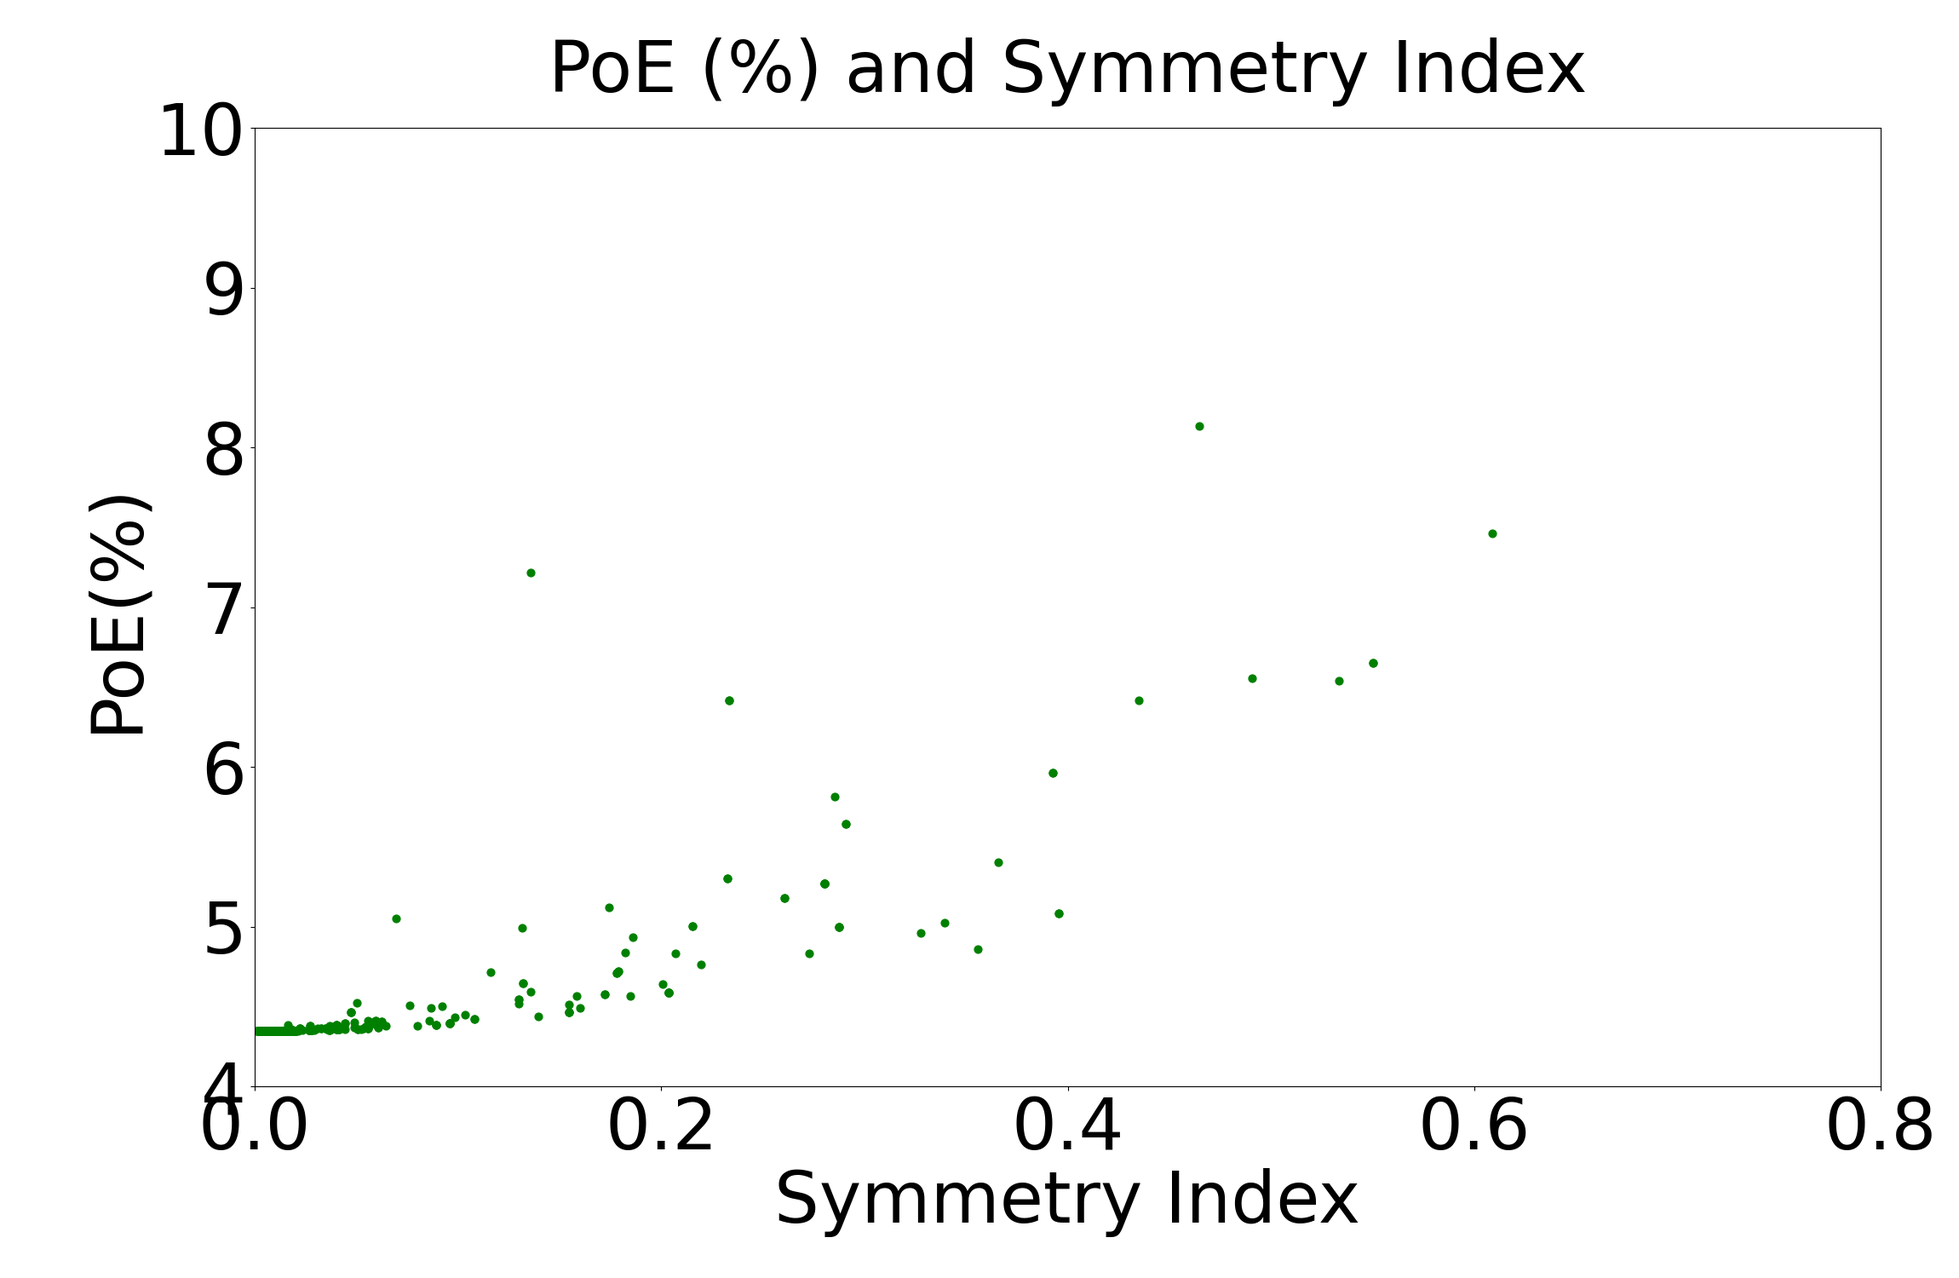
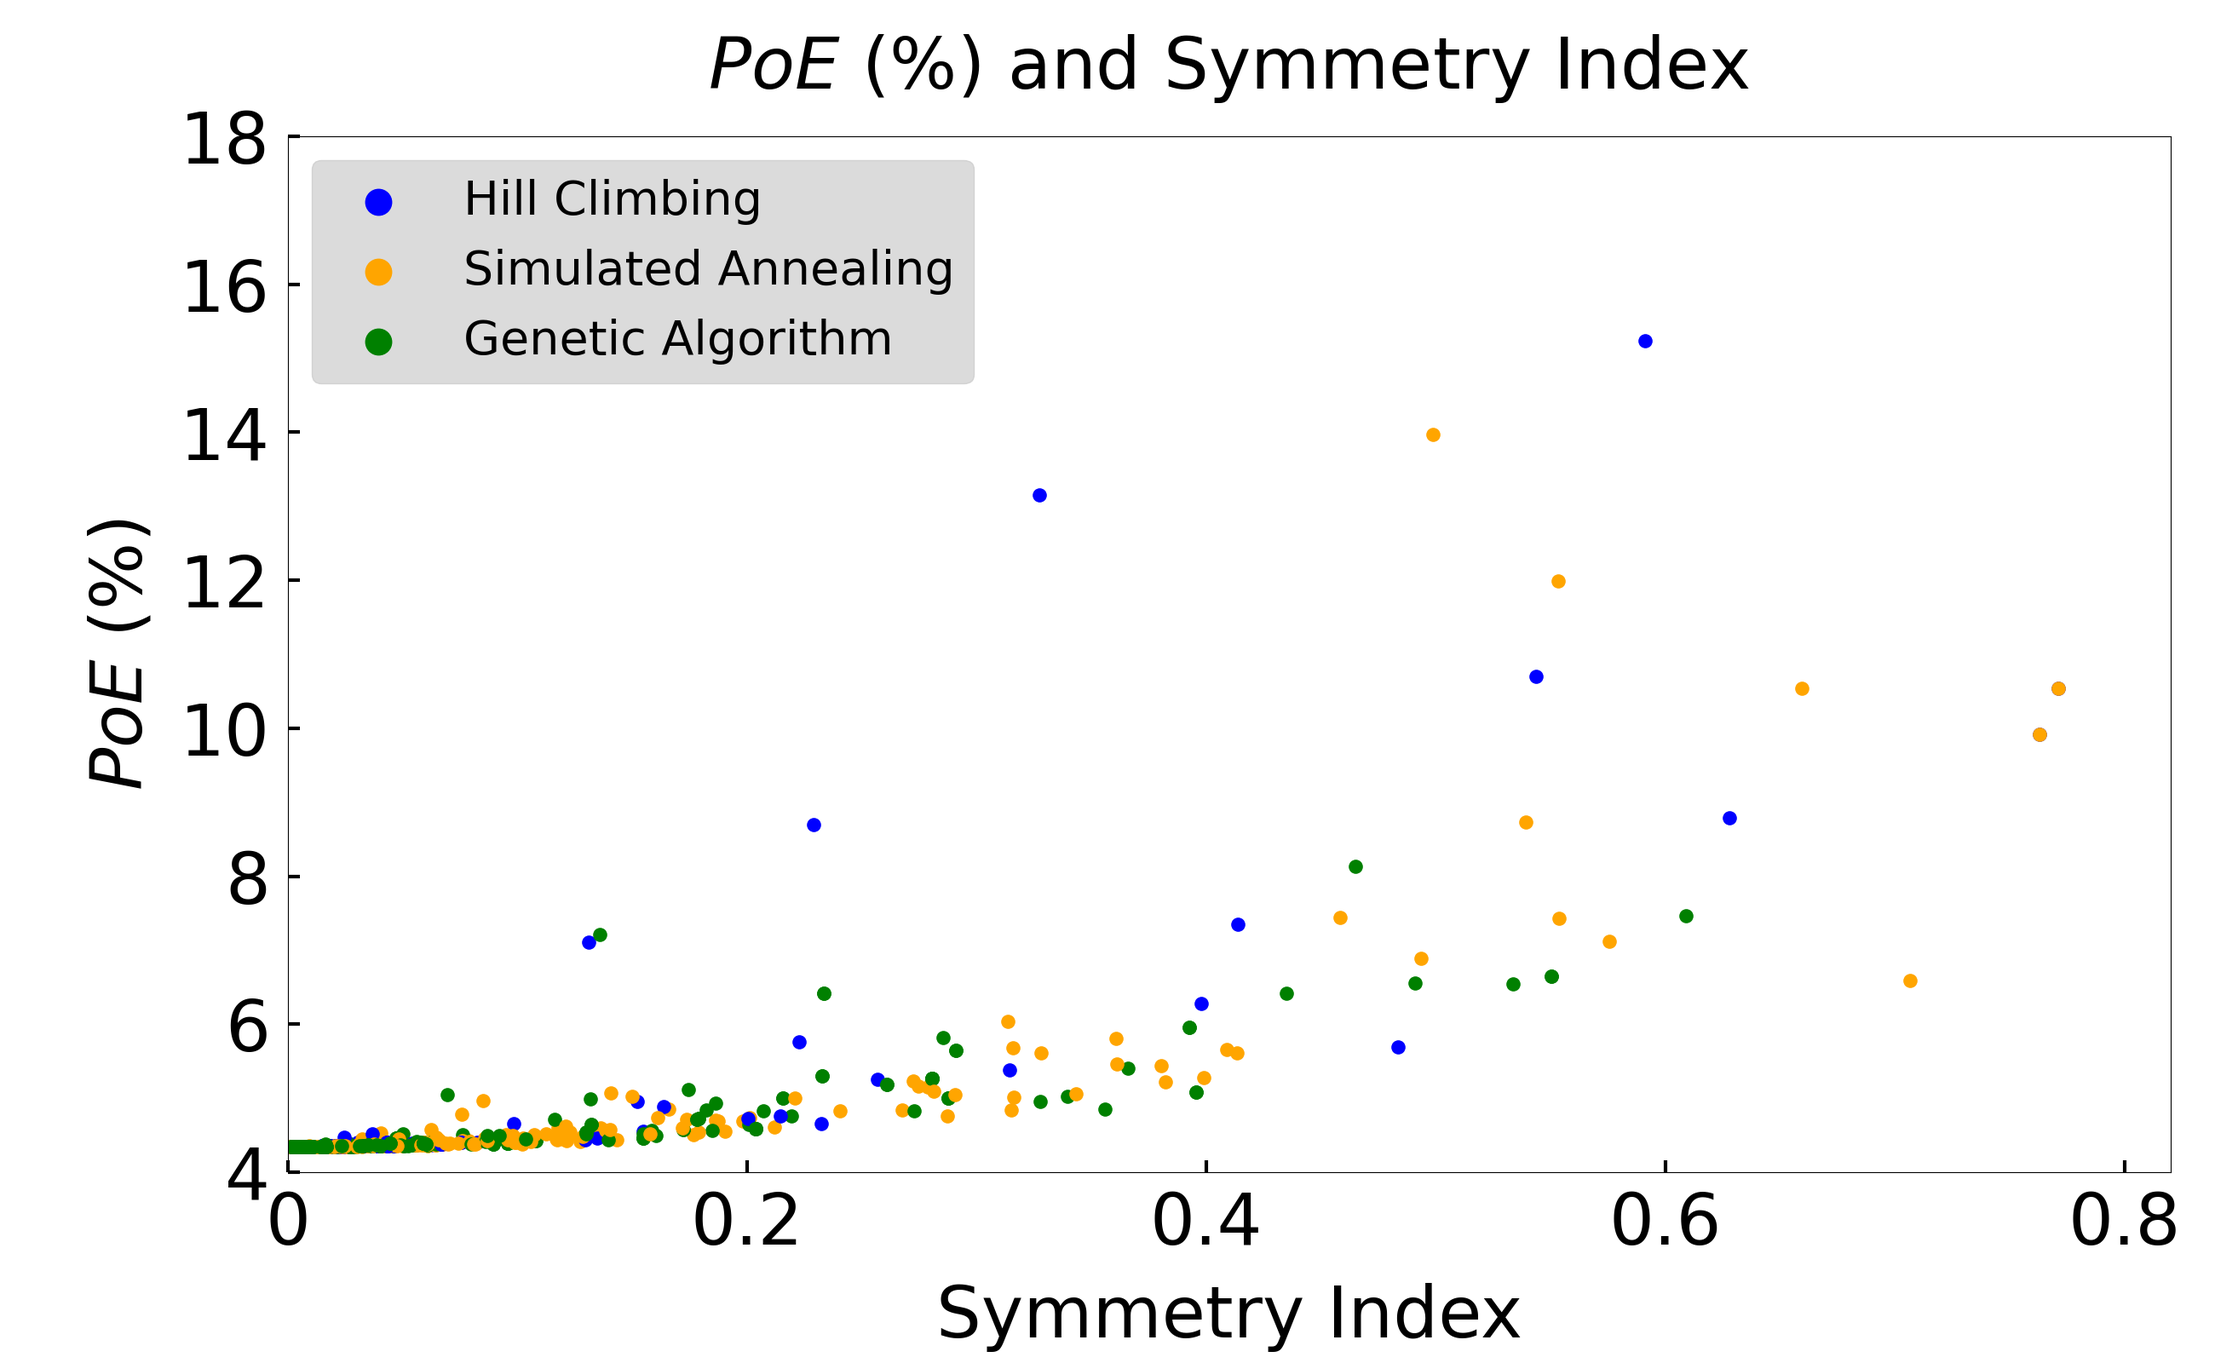
new plot; update quantum_state_custombasis

diff --git a/plot.py b/plot.py
@@ -408,7 +408,6 @@ class Plot:
 
     @staticmethod
     def symmetry_varyseed(data: dict, filename: str):
-        # prepare data
         theta = 46
         table = defaultdict(list)
         for myinput, output_by_methods in data:
@@ -416,7 +415,7 @@ class Plot:
                 if method == 'Hill climbing' and myinput.unitary_theta == theta:
                     table[output.start_seed] = output.symmetries
         print(table)
-        fig, ax = plt.subplots(figsize=(23, 17))
+        fig, ax = plt.subplots(figsize=(26, 16))
         fig.subplots_adjust(left=0.13, right=0.96, top=0.9, bottom=0.15)
         seeds = [0, 1, 2, 3, 4]
         for seed in seeds:
@@ -434,7 +433,6 @@ class Plot:
 
     @staticmethod
     def symmetry_varymethod(data: dict, filename: str):
-        # prepare data
         theta = 46
         seed = 0
         table = defaultdict(list)
@@ -443,13 +441,37 @@ class Plot:
                 if myinput.unitary_theta == theta and output.start_seed == seed:
                     table[method] = output.symmetries
         print(table)
-        fig, ax = plt.subplots(figsize=(23, 15))
+        fig, ax = plt.subplots(figsize=(26, 16))
         fig.subplots_adjust(left=0.13, right=0.96, top=0.9, bottom=0.15)
         methods = ['Hill climbing', 'Simulated annealing', 'Genetic algorithm']
         for method in methods:
-            ax.plot(table[method][:100], label=method)
-        ax.legend()
-        ax.set_title(f'Various Methods at $theta={theta}$', pad=40)
+            ax.plot(table[method][:100], label=method, linestyle=Plot.LINE_STYLE[method], color=Plot.COLOR[method])
+        ax.legend(fontsize=45)
+        ax.set_title(f'Various Methods at $theta={theta}$', pad=40, fontsize=60)
+        ax.set_xlabel('Iteration', labelpad=20)
+        ax.set_ylabel('Symmetry Index', labelpad=20)
+        ax.set_ylim([-0.001, 1])
+        ax.set_xlim([-0.1, 100])
+        ax.tick_params(axis='x', direction='out', length=10, width=3, pad=15)
+        ax.tick_params(axis='y', direction='out', length=10, width=3, pad=15)
+        fig.savefig(filename)
+
+
+    @staticmethod
+    def symmetry_varytheta(data: dict, filename: str):
+        table = defaultdict(list)
+        for myinput, output_by_methods in data:
+            for method, output in output_by_methods.items():
+                if method == 'Hill climbing' and output.start_seed == 0:
+                    table[myinput.unitary_theta] = output.symmetries
+        print(table)
+        fig, ax = plt.subplots(figsize=(26, 16))
+        fig.subplots_adjust(left=0.13, right=0.96, top=0.9, bottom=0.15)
+        thetas = [6, 26, 46, 66, 86]
+        for theta in thetas:
+            ax.plot(table[theta][:100], label=str(theta))
+        ax.legend(fontsize=45)
+        ax.set_title('Hill Climbing, varying $theta$', pad=40, fontsize=60)
         ax.set_xlabel('Iteration', labelpad=20)
         ax.set_ylabel('Symmetry Index', labelpad=20)
         ax.set_ylim([-0.001, 1])
@@ -469,21 +491,65 @@ class Plot:
                 if myinput.unitary_theta == theta:
                     table[key.format(method, output.start_seed)].append(output.symmetries)                     # [0] is symmetry
                     table[key.format(method, output.start_seed)].append((1 - np.array(output.scores)) * 100)   # [1] is poe
-        fig, ax = plt.subplots(figsize=(23, 15))
-        fig.subplots_adjust(left=0.13, right=0.96, top=0.9, bottom=0.15)
-        # methods = ['Hill climbing']
+        fig, ax = plt.subplots(figsize=(26, 16))
+        fig.subplots_adjust(left=0.13, right=0.98, top=0.9, bottom=0.14)
+        methods = ['Hill climbing', 'Simulated annealing', 'Genetic algorithm']
         # methods = ['Simulated annealing']
-        methods = ['Genetic algorithm']
+        # methods = ['Genetic algorithm']
         seeds = [0, 1, 2, 3, 4]
-        for method in methods:
-            for seed in seeds:
-                ax.scatter(table[key.format(method, seed)][0], table[key.format(method, seed)][1], color=Plot.COLOR[method], s=40)
+        for seed in seeds:
+            for method in methods:
+                if seed == 0:
+                    ax.scatter(table[key.format(method, seed)][0], table[key.format(method, seed)][1], color=Plot.COLOR[method], s=120, label=Plot.METHOD[method])
+                else:
+                    ax.scatter(table[key.format(method, seed)][0], table[key.format(method, seed)][1], color=Plot.COLOR[method], s=120)
+        ax.legend(fontsize=40, facecolor='lightgray', markerscale=2)
+        ax.set_xlabel('Symmetry Index', labelpad=20)
+        ax.set_ylabel('$PoE$ (%)', labelpad=20)
+        ax.set_xlim([0, 0.82])
+        xticks = [0, 0.2, 0.4, 0.6, 0.8]
+        ax.set_xticks(xticks)
+        ax.set_xticklabels([str(x) for x in xticks])
+        ax.set_ylim([4, 18])
+        ax.set_title('$PoE$ (%) and Symmetry Index', fontsize=60, pad=40)
+        ax.tick_params(axis='x', direction='in', length=10, width=3, pad=15)
+        ax.tick_params(axis='y', direction='in', length=10, width=3, pad=15)
+        fig.savefig(filename)
 
-        ax.set_xlabel('Symmetry Index')
-        ax.set_ylabel('PoE(%)')
-        ax.set_xlim([0, 0.8])
-        ax.set_ylim([4, 10])
-        ax.set_title('PoE (%) and Symmetry Index', fontsize=60, pad=30)
+
+    @staticmethod
+    def symmetry_poe_varymethod_zoomin(data: dict, filename: str):
+        theta = 46
+        table = defaultdict(list)
+        key = '{}-{}'  # {method}-{seed}
+        for myinput, output_by_methods in data:
+            for method, output in output_by_methods.items():
+                if myinput.unitary_theta == theta:
+                    table[key.format(method, output.start_seed)].append(output.symmetries)                     # [0] is symmetry
+                    table[key.format(method, output.start_seed)].append((1 - np.array(output.scores)) * 100)   # [1] is poe
+        fig, ax = plt.subplots(figsize=(26, 16))
+        fig.subplots_adjust(left=0.13, right=0.98, top=0.9, bottom=0.14)
+        methods = ['Hill climbing', 'Simulated annealing', 'Genetic algorithm']
+        # methods = ['Simulated annealing']
+        # methods = ['Genetic algorithm']
+        seeds = [0, 1, 2, 3, 4]
+        for seed in seeds:
+            for method in methods:
+                if seed == 0:
+                    ax.scatter(table[key.format(method, seed)][0], table[key.format(method, seed)][1], color=Plot.COLOR[method], s=120, label=Plot.METHOD[method])
+                else:
+                    ax.scatter(table[key.format(method, seed)][0], table[key.format(method, seed)][1], color=Plot.COLOR[method], s=120)
+        ax.legend(fontsize=40, facecolor='lightgray', markerscale=2)
+        ax.set_xlabel('Symmetry Index', labelpad=20)
+        ax.set_ylabel('$PoE$ (%)', labelpad=20)
+        ax.set_xlim([0, 0.082])
+        ax.set_ylim([4.34, 4.44])
+        xticks = [0, 0.02, 0.04, 0.06, 0.08]
+        ax.set_xticks(xticks)
+        ax.set_xticklabels([str(x) for x in xticks])
+        ax.tick_params(axis='x', direction='in', length=10, width=3, pad=15)
+        ax.tick_params(axis='y', direction='in', length=10, width=3, pad=15)
+        ax.set_title('$PoE$ (%) and Symmetry Index', fontsize=60, pad=40)
         fig.savefig(filename)
 
 
@@ -513,30 +579,6 @@ class Plot:
         ax.tick_params(axis='y', direction='out', length=10, width=3, pad=15)
         fig.savefig(filename)
 
-
-    @staticmethod
-    def symmetry_varytheta(data: dict, filename: str):
-        # prepare data
-        table = defaultdict(list)
-        for myinput, output_by_methods in data:
-            for method, output in output_by_methods.items():
-                if method == 'Hill climbing' and output.start_seed == 0:
-                    table[myinput.unitary_theta] = output.symmetries
-        print(table)
-        fig, ax = plt.subplots(figsize=(23, 15))
-        fig.subplots_adjust(left=0.13, right=0.96, top=0.9, bottom=0.15)
-        thetas = [6, 26, 46, 66, 86]
-        for theta in thetas:
-            ax.plot(table[theta][:100], label=str(theta))
-        ax.legend()
-        ax.set_title('Hill Climbing, varying Theta', pad=40)
-        ax.set_xlabel('Iteration', labelpad=20)
-        ax.set_ylabel('Symmetry Index', labelpad=20)
-        ax.set_ylim([-0.001, 1])
-        ax.set_xlim([-0.1, 100])
-        ax.tick_params(axis='x', direction='out', length=10, width=3, pad=15)
-        ax.tick_params(axis='y', direction='out', length=10, width=3, pad=15)
-        fig.savefig(filename)
 
 
 def vary_theta():
@@ -594,14 +636,16 @@ def conjecture():
 def symmetry():
     logs = ['result/5.22.2023/symmetry_theta46', 'result/5.22.2023/symmetry_theta66', 'result/5.22.2023/symmetry_thetas']
     data = Logger.read_log(logs)
-    # filename = 'result/5.22.2023/symmetry_vary{}.png'
+    filename = 'result/5.22.2023/symmetry_vary{}.png'
     # Plot.symmetry_varyseed(data, filename.format('seed'))
-    # Plot.symmetry_varymethod(data, filename.format('method'))
+    Plot.symmetry_varymethod(data, filename.format('method'))
     # Plot.symmetry_varymethod_poe(data, filename.format('method_poe'))
-    # Plot.symmetry_varytheta(data, filename.format('theta'))
+    Plot.symmetry_varytheta(data, filename.format('theta'))
 
-    filename = 'result/5.22.2023/poe_symmetry.png'
-    Plot.symmetry_poe_varymethod(data, filename)
+    # filename = 'result/5.22.2023/poe_symmetry.png'
+    # Plot.symmetry_poe_varymethod(data, filename)
+    # filename = 'result/5.22.2023/poe_symmetry_zoomin.png'
+    # Plot.symmetry_poe_varymethod_zoomin(data, filename)
 
 
 
@@ -610,5 +654,5 @@ if __name__ == '__main__':
     # methods_similar()
     # lemma2()
     # lemma3()
-    conjecture()
-    # symmetry()
+    # conjecture()
+    symmetry()

diff --git a/conjecture_lemmas.py b/conjecture_lemmas.py
@@ -136,6 +136,7 @@ def average_init_state(init_state: QuantumStateCustomBasis, partition: list) -> 
 def evaluate(init_state_custom: QuantumStateCustomBasis, U: Operator, priors: list, povm: Povm, debug: bool = False) -> float:
     '''evaluate an initial state using SDP, return the probability of error
     '''
+    print('*** Evaluating ***')
     quantum_states = []
     num_sensor = init_state_custom.num_sensor
     for i in range(num_sensor):
@@ -143,7 +144,10 @@ def evaluate(init_state_custom: QuantumStateCustomBasis, U: Operator, priors: li
         qstate = deepcopy(init_state_custom)
         qstate.evolve(evolve_operator)
         quantum_states.append(qstate)
-    povm.semidefinite_programming_minerror(quantum_states, priors, debug=debug)
+    if debug:
+        for qstate in quantum_states:
+            print(qstate)
+    povm.semidefinite_programming_minerror(quantum_states, priors, debug=False)
     return povm.theoretical_error
 
 
@@ -471,17 +475,22 @@ def main3_delta(debug, seed, unitary_theta):
 
 
 def validate_lemma2():
-    debug = False
+    debug = True
     seed = 0
     unitary_theta = 40
     file_perm = 'result/5.25.2023/lemma2.n{}-t{}.perm.npy'
     file_avg  = 'result/5.25.2023/lemma2.n{}-t{}.avg.npy'
     
-    for num_sen in [3,4,5]:
-        for unitary_theta in [6, 26, 46, 66, 86]:
-            errors_perm, errors_avg = lemma2(num_sen, debug, seed, unitary_theta)
-            np.save(file_perm.format(num_sen, unitary_theta), np.array(errors_perm))
-            np.save(file_avg.format(num_sen, unitary_theta), np.array(errors_avg))
+    # for num_sen in [3,4,5]:
+    #     for unitary_theta in [6, 26, 46, 66, 86]:
+    #         errors_perm, errors_avg = lemma2(num_sen, debug, seed, unitary_theta)
+    #         np.save(file_perm.format(num_sen, unitary_theta), np.array(errors_perm))
+    #         np.save(file_avg.format(num_sen, unitary_theta), np.array(errors_avg))
+
+    for num_sen in [3]:
+        for unitary_theta in [46]:
+            lemma_tmp(num_sen, debug, seed, unitary_theta)
+
 
 
 # validate lemma 2 about averaging two states, n=3
@@ -501,9 +510,9 @@ def lemma2(num_sensor, debug, seed, unitary_theta):
     init_state_custom = QuantumStateCustomBasis(num_sensor, custom_basis)
     init_state_custom.init_random_state_realnumber(seed)      # all coefficients are random
     print('\ninitial state:')
-    print('error', evaluate(init_state_custom, U, priors, povm, debug=debug))
     if debug:
         print(f'Initial state:\n{init_state_custom}\n')
+    print('error', evaluate(init_state_custom, U, priors, povm, debug=debug))
     # 2. purmutate the initial state and evaluate them
     init_state_custom_permute = permutation_custombasis(init_state_custom)
     print('\npermutated states:')
@@ -519,6 +528,36 @@ def lemma2(num_sensor, debug, seed, unitary_theta):
         errors_avg.append(evaluate(qstate_avg, U, priors, povm, debug=debug))
         print(i, 'error', errors_avg[-1])
     return errors_perm, errors_avg
+
+
+def lemma_tmp(num_sensor, debug, seed, unitary_theta):
+    '''use QuantumStateCustomBasis
+       1) confirm that the permutations of an initial state has the same probability of error
+       2) average --> better state (lower error)
+    '''
+    print(f'---\nunitary theta is {unitary_theta}, seed is {seed}')
+    priors = [1/num_sensor] * num_sensor
+    povm = Povm()
+    # 1. random initial state and random unitary operator
+    U = Utility.generate_unitary_operator(theta=unitary_theta, seed=2)
+    if debug:
+        Utility.print_matrix('\nUnitary operator:', U.data)
+    custom_basis = Utility.generate_custombasis(num_sensor, U)
+    init_state_custom = QuantumStateCustomBasis(num_sensor, custom_basis)
+    init_state_custom.init_random_state_realnumber(seed)      # all coefficients are random
+    print('\ninitial state:')
+    print(f'Initial state:\n{init_state_custom}\n')
+    print('error', evaluate(init_state_custom, U, priors, povm, debug=debug))
+    # 2. purmutate the initial state and evaluate them
+    init_state_custom_permute = permutation_custombasis(init_state_custom)
+    print('\npermutated states:')
+    errors_perm = []
+    for i, qstate in enumerate(init_state_custom_permute):
+        print(qstate)
+        errors_perm.append(evaluate(qstate, U, priors, povm, debug=debug))
+        print(i, 'error', errors_perm[-1])
+        break
+    return
 
 
 def validate_lemma3():

diff --git a/quantum_state_custombasis.py b/quantum_state_custombasis.py
@@ -26,7 +26,7 @@ class QuantumStateCustomBasis:
         self._custom_basis = custom_basis
         self._state_vector_custom = state_vector_custom
         self._state_vector = state_vector
-        self._density_matrix = None
+        self._density_matrix = np.outer(self._state_vector, np.conj(self._state_vector)) if state_vector is not None else None
         if self._state_vector_custom is not None:
             self.custom2computational()
 
@@ -53,13 +53,10 @@ class QuantumStateCustomBasis:
     @state_vector.setter
     def state_vector(self, vector: np.array):
         self._state_vector = vector
+        self._density_matrix = np.outer(self._state_vector, np.conj(self._state_vector))
 
     @property
     def density_matrix(self):
-        if self._density_matrix is None:  # BUG?
-            if self._state_vector is None:
-                raise Exception('state_vector is None!')
-            self._density_matrix = np.outer(self._state_vector, np.conj(self._state_vector))  # don't forget the conjugate ...
         return self._density_matrix
 
     def custom2computational(self):
@@ -68,6 +65,8 @@ class QuantumStateCustomBasis:
         self._state_vector = self._state_vector_custom[0] * self._custom_basis[0]
         for i in range(1, 2**self.num_sensor):
             self._state_vector += self._state_vector_custom[i] * self._custom_basis[i]
+        self._density_matrix = np.outer(self._state_vector, np.conj(self._state_vector))
+
 
     def check_state(self):
         '''check if the amplitudes norm_squared add up to one
@@ -103,6 +102,7 @@ class QuantumStateCustomBasis:
             np.random.seed(seed)
         self._state_vector_custom = random_state(self.num_sensor)
         self.custom2computational()
+    
 
     def init_random_state_realnumber(self, seed: int = None):
         '''init a random quantum state with real number amplitudes'''
@@ -140,6 +140,7 @@ class QuantumStateCustomBasis:
         operator_dim = np.product(operator.input_dims()) # for N qubits, the input_dims() return (2, 2, ..., 2), N twos.
         if dim == operator_dim:
             self._state_vector = np.dot(operator._data, self._state_vector)
+            self._density_matrix = np.outer(self._state_vector, np.conj(self._state_vector))
         else:
             raise Exception('state_vector and operator dimension not equal')
 
@@ -169,13 +170,14 @@ class QuantumStateCustomBasis:
         probs = np.abs(amplitudes) ** 2
         print('\nProbabilities:')
         for i, prob in enumerate(probs):
-            print(f'|{i}> : {prob}')
+            print(f'|{i}> : {prob:.5f}')
         if matplotlib:
             import matplotlib.pyplot as plt
             X = list(range(2**self.num_sensor))
             plt.bar(X, probs)
             plt.xticks(X)
             plt.show()
+
 
     def get_symmetry_index(self) -> float:
         '''a measure of symmetry -- the sum of pairwise difference in the coefficient-squares, i.e., probabilities, in each partition
@@ -201,7 +203,7 @@ class QuantumStateCustomBasis:
 
     def __str__(self):
         string = '\nCustom Basis:\n'
-        string += self.custombasis2string()
+        # string += self.custombasis2string()
         string += '\nCoefficients in custom basis:\n'
         index = 0
         num_of_bit = math.ceil(math.log2(len(self.state_vector_custom)))
